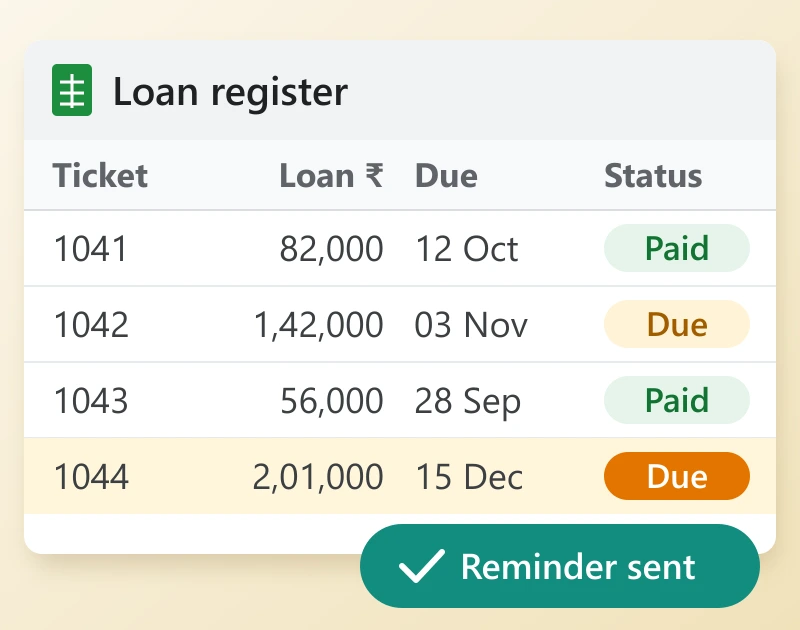
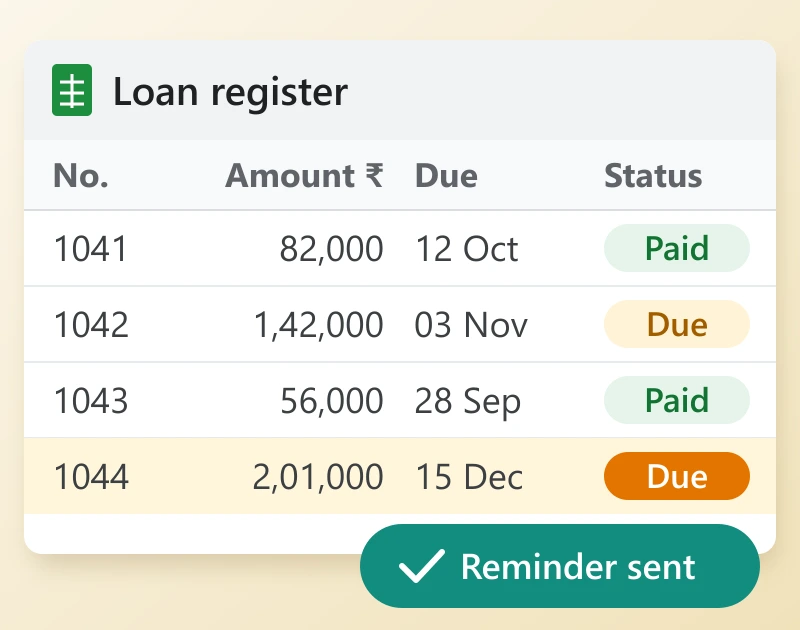
Call the pawn ticket a loan agreement
At Vamscore's request, for the product framing: "pawn ticket" becomes
"loan agreement" throughout the Mahaveer Instant Loan story, its number
the "loan number", and each Sheet row a "loan". It is an accurate name
for what the app produces: borrower details, principal, redemption
period, a declaration and both signatures.

The register illustration's headers go from Ticket / Loan to No. /
Amount, and its alt text drops "gold weights", a column the picture
lost in an earlier redraw.

Changed region(s): [[0.2812, 0.2413, 0.4375, 0.3016], [0.0625, 0.2413, 0.1875, 0.3016]]

diff --git a/content/stories.ts b/content/stories.ts
@@ -21,6 +21,11 @@
  * and "nothing to install" are true of how it is delivered. It does not say
  * or imply that other businesses subscribe to it: the code serves one
  * business and its owners. Change that only if it becomes true.
+ *
+ * "Loan agreement", not "pawn ticket" (Vamscore's call, same day). It is an
+ * accurate name for what the app produces — borrower details, principal,
+ * redemption period, a declaration and both signatures — in the language
+ * a lender's customers expect. Its number is the "loan number".
  */
 
 const IMG = "/assets/img";
@@ -400,7 +405,7 @@ export const STORIES: Story[] = [
     client: "Mahaveer Instant Loan",
     title: "Mahaveer Instant Loan: a cloud platform for gold lending",
     standfirst:
-      "Gold lending still runs on paper tickets, a calculator and a ledger. Mahaveer Instant Loan replaces all three with one cloud platform — loan pricing, digital pawn tickets, customer history and payment reminders — that runs in any browser, at the counter or on a phone.",
+      "Gold lending still runs on paper forms, a calculator and a ledger. Mahaveer Instant Loan replaces all three with one cloud platform — loan pricing, digital loan agreements, customer history and payment reminders — that runs in any browser, at the counter or on a phone.",
     // The project's own artwork: jewellery on a dark table, with the calm left
     // third the carousel's headline needs.
     hero: `${IMG}/story-mahaveer-gold.webp`,
@@ -416,8 +421,8 @@ export const STORIES: Story[] = [
       {
         kind: "prose",
         paragraphs: [
-          "A gold loan is a simple transaction with a lot of paperwork behind it. The jewellery is weighed, the day's gold rate applied, a loan amount and a redemption period agreed, and a pawn ticket written out — the customer's name, their father's or husband's name, address and identity number, and a line for every article with its gross and net weight.",
-          "The difficulty is everything after that. The ticket goes into a file and the figures into a ledger. When the same customer comes back months later with another piece, the only way to see what they already owe is to go looking. Reminding someone that a loan is due means finding their number and typing the message by hand.",
+          "A gold loan is a simple transaction with a lot of paperwork behind it. The jewellery is weighed, the day's gold rate applied, a loan amount and a redemption period agreed, and a loan agreement written out by hand — the customer's name, their father's or husband's name, address and identity number, and a line for every article with its gross and net weight.",
+          "The difficulty is everything after that. The agreement goes into a file and the figures into a ledger. When the same customer comes back months later with another piece, the only way to see what they already owe is to go looking. Reminding someone that a loan is due means finding their number and typing the message by hand.",
         ],
         // Each row restates a capability from "What we built" below; nothing
         // here claims more than that list does.
@@ -425,7 +430,7 @@ export const STORIES: Story[] = [
           fromLabel: "On paper",
           toLabel: "With the app",
           rows: [
-            { from: "Handwritten pawn ticket", to: "Filled in on screen, ready to print" },
+            { from: "Handwritten loan agreement", to: "Filled in on screen, ready to print" },
             { from: "Loan worked out on a calculator", to: "Calculated as the details are entered" },
             { from: "Searching files for past loans", to: "Every earlier loan, in seconds" },
             { from: "Reminders typed by hand", to: "Sent over WhatsApp in one tap" },
@@ -453,19 +458,19 @@ export const STORIES: Story[] = [
           },
           {
             title: "The loan calculator",
-            body: "Enter the gold weight, the day's price per gram, the tenure and the interest rate, and the loan amount and total due are worked out. The figures carry straight into the ticket and stay editable, because the final number is still the owner's call.",
+            body: "Enter the gold weight, the day's price per gram, the tenure and the interest rate, and the loan amount and total due are worked out. The figures carry straight into the agreement and stay editable, because the final number is still the owner's call.",
           },
           {
-            title: "The pawn ticket, on screen",
-            body: "Every field of the paper ticket — ticket number, date, customer and guardian name, phone, Aadhaar, address, the principal in figures and in words, the time agreed for redemption, and each article's gross and net weight — with the declaration and signature lines, ready to print.",
+            title: "Digital loan agreements",
+            body: "Every field of the paper form — loan number, date, customer and guardian name, phone, Aadhaar, address, the principal in figures and in words, the time agreed for redemption, and each article's gross and net weight — with the declaration and signature lines, ready to print.",
           },
           {
             title: "Photographs with every loan",
-            body: "A photo of the customer and of the jewellery is taken with each ticket. Both are compressed on the device before upload, so a phone on a weak connection can still send them.",
+            body: "A photo of the customer and of the jewellery is taken with each loan. Both are compressed on the device before upload, so a phone on a weak connection can still send them.",
           },
           {
             title: "Customer history before every new loan",
-            body: "Search by phone number, name, ticket number or Aadhaar and see every earlier loan with its payment status — before the new ticket is written, not after.",
+            body: "Search by phone number, name, loan number or Aadhaar and see every earlier loan with its payment status — before a new loan is issued, not after.",
           },
           {
             title: "Reminders in one tap",
@@ -486,7 +491,7 @@ export const STORIES: Story[] = [
         // named, here or in the rows (Vamscore's call, 2026-09-22).
         aside: {
           src: `${IMG}/story-mahaveer-architecture.webp`,
-          alt: "Diagram: the counter computer and the owner's phone both connect to the Mahaveer Instant Loan platform, which reads and writes the loan register in Google Sheets and stores ticket photos in Google Drive",
+          alt: "Diagram: the counter computer and the owner's phone both connect to the Mahaveer Instant Loan platform, which reads and writes the loan register in Google Sheets and stores loan photos in Google Drive",
         },
         rows: [
           {
@@ -501,7 +506,7 @@ export const STORIES: Story[] = [
           {
             term: "Records",
             detail:
-              "Each ticket is written as a row in a Google Sheet; the photographs go to a Google Drive folder.",
+              "Each loan is written as a row in a Google Sheet; the photographs go to a Google Drive folder.",
           },
           {
             term: "Google access",
@@ -514,14 +519,14 @@ export const STORIES: Story[] = [
         kind: "prose",
         heading: "Why a spreadsheet, not a database",
         // Drawn for this page. Customer names are grey bars on purpose: made-up
-        // names on a pawn register would read as a leak of real customers.
+        // names on a loan register would read as a leak of real customers.
         aside: {
           src: `${IMG}/story-mahaveer-register.webp`,
-          alt: "Illustration of the loan register as a spreadsheet, with ticket numbers, gold weights, loan amounts, due dates and paid or due status, and a reminder-sent message beside a loan that is due",
+          alt: "Illustration of the loan register as a spreadsheet, with loan numbers, loan amounts, due dates and paid or due status, and a reminder-sent message beside a loan that is due",
         },
         paragraphs: [
           "A business of this size does not need a database server, and it does not need another monthly bill for one. Its register is a list of loans, which is exactly what a spreadsheet is. Keeping the records in Google Sheets leaves nothing for the business to host or maintain, and the register is never locked inside the software: it can be opened, sorted, filtered and exported with tools that are already free.",
-          "The application does the part a spreadsheet does badly — holding every ticket to the same format, doing the arithmetic, attaching the photographs, finding a customer's past loans in seconds, and turning a due date into a message.",
+          "The application does the part a spreadsheet does badly — holding every agreement to the same format, doing the arithmetic, attaching the photographs, finding a customer's past loans in seconds, and turning a due date into a message.",
         ],
       },
     ],
